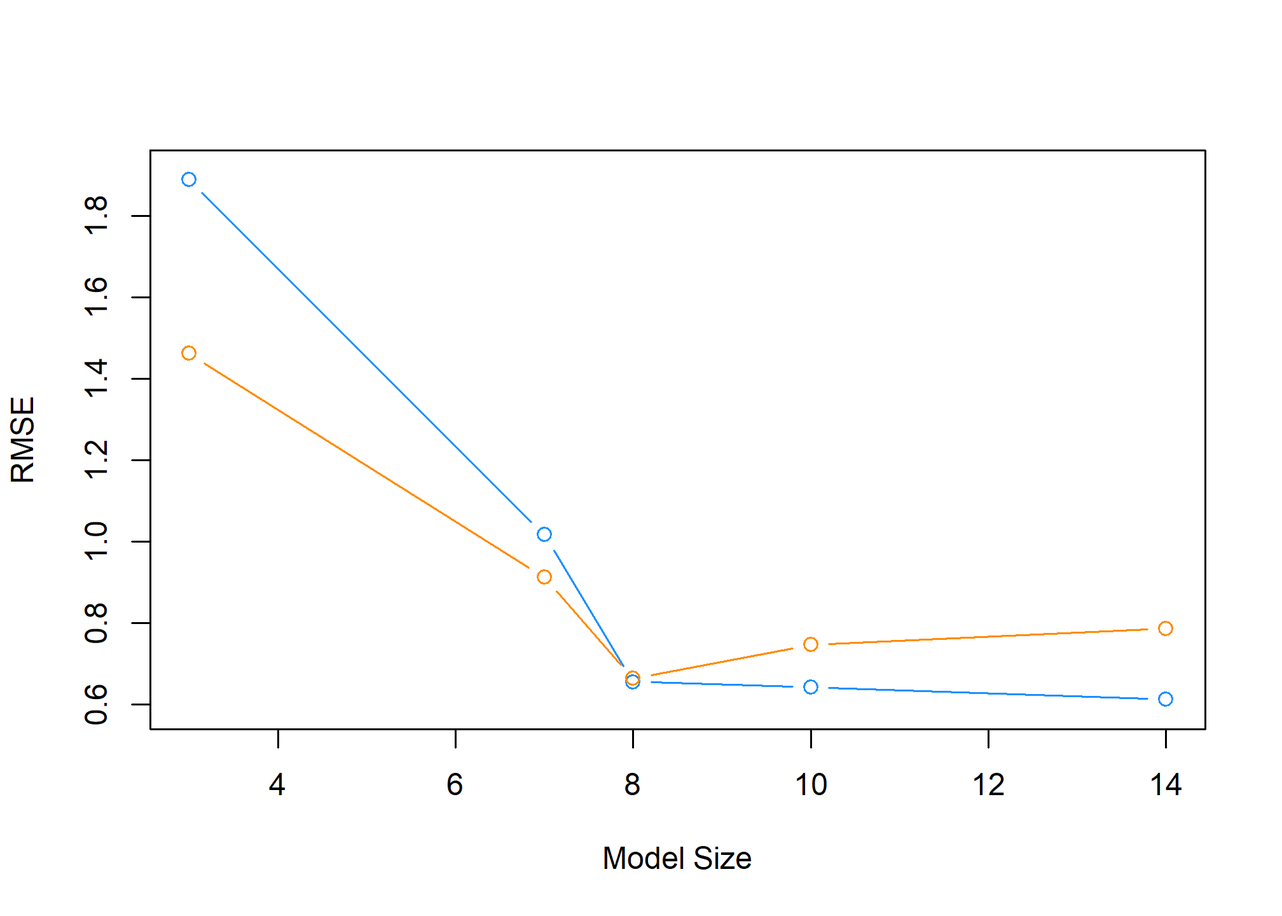
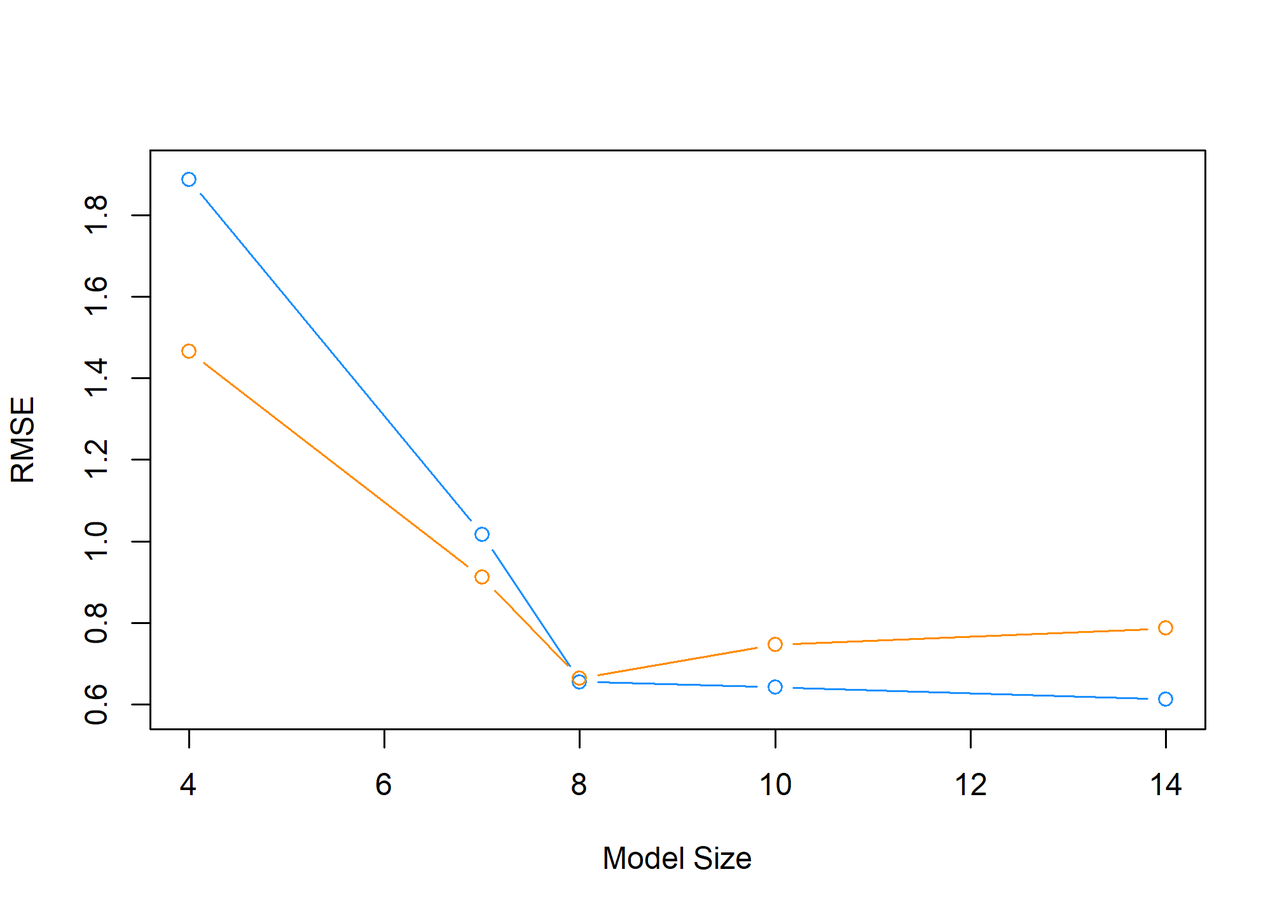
Updated 7 ex

diff --git a/public/example/07-example/index.html b/public/example/07-example/index.html
@@ -246,7 +246,7 @@ We will also use the Ames data again. Maybe some new data. Who knows. The Ames d
   <meta property="twitter:image" content="https://ssc442kirkpatrick.netlify.app/img/social-image.png"><meta property="og:locale" content="en-us">
   
     
-    <meta property="article:modified_time" content="2022-01-06T13:37:54-05:00">
+    <meta property="article:modified_time" content="2022-03-01T11:12:49-05:00">
   
 
   
@@ -645,24 +645,27 @@ We will also use the Ames data again. Maybe some new data. Who knows. The Ames d
 <p>Often when we are developing a linear regression model, part of our goal is to <strong>explain</strong> a relationship. Now, we will ignore much of what we have learned and instead simply use regression as a tool to <strong>predict</strong>. Instead of a model which explains relationships, we seek a model which minimizes errors.</p>
 <p><img src="img/regression.png" /></p>
 <p>First, note that a linear model is one of many methods used in regression.</p>
-<p>To discuss linear models in the context of prediction, we introduce the (very boring) <code>Advertising</code> data that is discussed in the ISL text (see supplemental readings).</p>
+<pre class="r"><code>library(readr)
+# Advertising &lt;- read_csv(here::here(&quot;static&quot;, &quot;data&quot;, &quot;Advertising.csv&quot;))
+Advertising &lt;- read_csv(&#39;https://www.statlearning.com/s/Advertising.csv&#39;)</code></pre>
+<p>To discuss linear models in the context of prediction, we introduce the (very boring) <code>Advertising</code> data that is discussed in the ISL text (see supplemental readings). It can be found at <a href="https://www.statlearning.com/s/Advertising.csv">https://www.statlearning.com/s/Advertising.csv</a>.</p>
 <pre class="r"><code>Advertising</code></pre>
-<pre><code>## # A tibble: 200 x 4
-##       TV Radio Newspaper Sales
-##    &lt;dbl&gt; &lt;dbl&gt;     &lt;dbl&gt; &lt;dbl&gt;
-##  1 230.   37.8      69.2  22.1
-##  2  44.5  39.3      45.1  10.4
-##  3  17.2  45.9      69.3   9.3
-##  4 152.   41.3      58.5  18.5
-##  5 181.   10.8      58.4  12.9
-##  6   8.7  48.9      75     7.2
-##  7  57.5  32.8      23.5  11.8
-##  8 120.   19.6      11.6  13.2
-##  9   8.6   2.1       1     4.8
-## 10 200.    2.6      21.2  10.6
+<pre><code>## # A tibble: 200 x 5
+##     ...1    TV radio newspaper sales
+##    &lt;dbl&gt; &lt;dbl&gt; &lt;dbl&gt;     &lt;dbl&gt; &lt;dbl&gt;
+##  1     1 230.   37.8      69.2  22.1
+##  2     2  44.5  39.3      45.1  10.4
+##  3     3  17.2  45.9      69.3   9.3
+##  4     4 152.   41.3      58.5  18.5
+##  5     5 181.   10.8      58.4  12.9
+##  6     6   8.7  48.9      75     7.2
+##  7     7  57.5  32.8      23.5  11.8
+##  8     8 120.   19.6      11.6  13.2
+##  9     9   8.6   2.1       1     4.8
+## 10    10 200.    2.6      21.2  10.6
 ## # ... with 190 more rows</code></pre>
 <pre class="r"><code>library(caret)
-featurePlot(x = Advertising[ , c(&quot;TV&quot;, &quot;Radio&quot;, &quot;Newspaper&quot;)], y = Advertising$Sales)</code></pre>
+featurePlot(x = Advertising[ , c(&quot;TV&quot;, &quot;radio&quot;, &quot;newspaper&quot;)], y = Advertising$sales)</code></pre>
 <p><img src="/example/07-example_files/figure-html/unnamed-chunk-3-1.png" width="960" /></p>
 </div>
 <div id="assesing-model-accuracy" class="section level2">
@@ -712,21 +715,21 @@ test_data = Advertising[-train_index, ]</code></pre>
 \]</span></p>
 <p>Here <span class="math inline">\(n_{Te}\)</span> is the number of observations in the test set. Test RMSE uses the model fit to the training data, but evaluated on the unused test data. This is a measure of how well the fitted model will predict <strong>in general</strong>, not simply how well it fits data used to train the model, as is the case with train RMSE. What happens to test RMSE as the size of the model increases? That is what we will investigate.</p>
 <p>We will start with the simplest possible linear model, that is, a model with no predictors.</p>
-<pre class="r"><code>fit_0 = lm(Sales ~ 1, data = train_data)
+<pre class="r"><code>fit_0 = lm(sales ~ 1, data = train_data)
 get_complexity(fit_0)</code></pre>
 <pre><code>## [1] 0</code></pre>
 <pre class="r"><code># train RMSE
-sqrt(mean((train_data$Sales - predict(fit_0, train_data)) ^ 2))</code></pre>
+sqrt(mean((train_data$sales - predict(fit_0, train_data)) ^ 2))</code></pre>
 <pre><code>## [1] 5.529258</code></pre>
 <pre class="r"><code># test RMSE
-sqrt(mean((test_data$Sales - predict(fit_0, test_data)) ^ 2))</code></pre>
+sqrt(mean((test_data$sales - predict(fit_0, test_data)) ^ 2))</code></pre>
 <pre><code>## [1] 4.914163</code></pre>
 <p>The previous two operations obtain the train and test RMSE. Since these are operations we are about to use repeatedly, we should use the function that we happen to have already written.</p>
 <pre class="r"><code># train RMSE
-rmse(actual = train_data$Sales, predicted = predict(fit_0, train_data))</code></pre>
+rmse(actual = train_data$sales, predicted = predict(fit_0, train_data))</code></pre>
 <pre><code>## [1] 5.529258</code></pre>
 <pre class="r"><code># test RMSE
-rmse(actual = test_data$Sales, predicted = predict(fit_0, test_data))</code></pre>
+rmse(actual = test_data$sales, predicted = predict(fit_0, test_data))</code></pre>
 <pre><code>## [1] 4.914163</code></pre>
 <p>This function can actually be improved for the inputs that we are using. We would like to obtain train and test RMSE for a fitted model, given a train or test dataset, and the appropriate response variable.</p>
 <pre class="r"><code>get_rmse = function(model, data, response) {
@@ -734,68 +737,68 @@ rmse(actual = test_data$Sales, predicted = predict(fit_0, test_data))</code></pr
        predicted = predict(model, data))
 }</code></pre>
 <p>By using this function, our code becomes easier to read, and it is more obvious what task we are accomplishing.</p>
-<pre class="r"><code>get_rmse(model = fit_0, data = train_data, response = &quot;Sales&quot;) # train RMSE</code></pre>
+<pre class="r"><code>get_rmse(model = fit_0, data = train_data, response = &quot;sales&quot;) # train RMSE</code></pre>
 <pre><code>## [1] 5.529258</code></pre>
-<pre class="r"><code>get_rmse(model = fit_0, data = test_data, response = &quot;Sales&quot;) # test RMSE</code></pre>
+<pre class="r"><code>get_rmse(model = fit_0, data = test_data, response = &quot;sales&quot;) # test RMSE</code></pre>
 <pre><code>## [1] 4.914163</code></pre>
 </div>
 <div id="adding-flexibility-to-linear-models" class="section level2">
 <h2>Adding Flexibility to Linear Models</h2>
 <p>Each successive model we fit will be more and more flexible using both interactions and polynomial terms. We will see the training error decrease each time the model is made more flexible. We expect the test error to decrease a number of times, then eventually start going up, as a result of overfitting.</p>
-<pre class="r"><code>fit_1 = lm(Sales ~ ., data = train_data)
+<pre class="r"><code>fit_1 = lm(sales ~ ., data = train_data)
 get_complexity(fit_1)</code></pre>
-<pre><code>## [1] 3</code></pre>
-<pre class="r"><code>get_rmse(model = fit_1, data = train_data, response = &quot;Sales&quot;) # train RMSE</code></pre>
-<pre><code>## [1] 1.888488</code></pre>
-<pre class="r"><code>get_rmse(model = fit_1, data = test_data, response = &quot;Sales&quot;) # test RMSE</code></pre>
-<pre><code>## [1] 1.461661</code></pre>
-<pre class="r"><code>fit_2 = lm(Sales ~ Radio * Newspaper * TV, data = train_data)
+<pre><code>## [1] 4</code></pre>
+<pre class="r"><code>get_rmse(model = fit_1, data = train_data, response = &quot;sales&quot;) # train RMSE</code></pre>
+<pre><code>## [1] 1.886583</code></pre>
+<pre class="r"><code>get_rmse(model = fit_1, data = test_data, response = &quot;sales&quot;) # test RMSE</code></pre>
+<pre><code>## [1] 1.465515</code></pre>
+<pre class="r"><code>fit_2 = lm(sales ~ radio * newspaper * TV, data = train_data)
 get_complexity(fit_2)</code></pre>
 <pre><code>## [1] 7</code></pre>
-<pre class="r"><code>get_rmse(model = fit_2, data = train_data, response = &quot;Sales&quot;) # train RMSE</code></pre>
+<pre class="r"><code>get_rmse(model = fit_2, data = train_data, response = &quot;sales&quot;) # train RMSE</code></pre>
 <pre><code>## [1] 1.016822</code></pre>
-<pre class="r"><code>get_rmse(model = fit_2, data = test_data, response = &quot;Sales&quot;) # test RMSE</code></pre>
+<pre class="r"><code>get_rmse(model = fit_2, data = test_data, response = &quot;sales&quot;) # test RMSE</code></pre>
 <pre><code>## [1] 0.9117228</code></pre>
-<pre class="r"><code>fit_3 = lm(Sales ~ Radio * Newspaper * TV + I(TV ^ 2), data = train_data)
+<pre class="r"><code>fit_3 = lm(sales ~ radio * newspaper * TV + I(TV ^ 2), data = train_data)
 get_complexity(fit_3)</code></pre>
 <pre><code>## [1] 8</code></pre>
-<pre class="r"><code>get_rmse(model = fit_3, data = train_data, response = &quot;Sales&quot;) # train RMSE</code></pre>
+<pre class="r"><code>get_rmse(model = fit_3, data = train_data, response = &quot;sales&quot;) # train RMSE</code></pre>
 <pre><code>## [1] 0.6553091</code></pre>
-<pre class="r"><code>get_rmse(model = fit_3, data = test_data, response = &quot;Sales&quot;) # test RMSE</code></pre>
+<pre class="r"><code>get_rmse(model = fit_3, data = test_data, response = &quot;sales&quot;) # test RMSE</code></pre>
 <pre><code>## [1] 0.6633375</code></pre>
-<pre class="r"><code>fit_4 = lm(Sales ~ Radio * Newspaper * TV +
-           I(TV ^ 2) + I(Radio ^ 2) + I(Newspaper ^ 2), data = train_data)
+<pre class="r"><code>fit_4 = lm(sales ~ radio * newspaper * TV +
+           I(TV ^ 2) + I(radio ^ 2) + I(newspaper ^ 2), data = train_data)
 get_complexity(fit_4)</code></pre>
 <pre><code>## [1] 10</code></pre>
-<pre class="r"><code>get_rmse(model = fit_4, data = train_data, response = &quot;Sales&quot;) # train RMSE</code></pre>
+<pre class="r"><code>get_rmse(model = fit_4, data = train_data, response = &quot;sales&quot;) # train RMSE</code></pre>
 <pre><code>## [1] 0.6421909</code></pre>
-<pre class="r"><code>get_rmse(model = fit_4, data = test_data, response = &quot;Sales&quot;) # test RMSE</code></pre>
+<pre class="r"><code>get_rmse(model = fit_4, data = test_data, response = &quot;sales&quot;) # test RMSE</code></pre>
 <pre><code>## [1] 0.7465957</code></pre>
-<pre class="r"><code>fit_5 = lm(Sales ~ Radio * Newspaper * TV +
-           I(TV ^ 2) * I(Radio ^ 2) * I(Newspaper ^ 2), data = train_data)
+<pre class="r"><code>fit_5 = lm(sales ~ radio * newspaper * TV +
+           I(TV ^ 2) * I(radio ^ 2) * I(newspaper ^ 2), data = train_data)
 get_complexity(fit_5)</code></pre>
 <pre><code>## [1] 14</code></pre>
-<pre class="r"><code>get_rmse(model = fit_5, data = train_data, response = &quot;Sales&quot;) # train RMSE</code></pre>
+<pre class="r"><code>get_rmse(model = fit_5, data = train_data, response = &quot;sales&quot;) # train RMSE</code></pre>
 <pre><code>## [1] 0.6120887</code></pre>
-<pre class="r"><code>get_rmse(model = fit_5, data = test_data, response = &quot;Sales&quot;) # test RMSE</code></pre>
+<pre class="r"><code>get_rmse(model = fit_5, data = test_data, response = &quot;sales&quot;) # test RMSE</code></pre>
 <pre><code>## [1] 0.7864181</code></pre>
 </div>
 <div id="choosing-a-model" class="section level2">
 <h2>Choosing a Model</h2>
 <p>To better understand the relationship between train RMSE, test RMSE, and model complexity, we summarize our results, as the above is somewhat cluttered.</p>
 <p>First, we recap the models that we have fit.</p>
-<pre class="r"><code>fit_1 = lm(Sales ~ ., data = train_data)
-fit_2 = lm(Sales ~ Radio * Newspaper * TV, data = train_data)
-fit_3 = lm(Sales ~ Radio * Newspaper * TV + I(TV ^ 2), data = train_data)
-fit_4 = lm(Sales ~ Radio * Newspaper * TV +
-           I(TV ^ 2) + I(Radio ^ 2) + I(Newspaper ^ 2), data = train_data)
-fit_5 = lm(Sales ~ Radio * Newspaper * TV +
-           I(TV ^ 2) * I(Radio ^ 2) * I(Newspaper ^ 2), data = train_data)</code></pre>
+<pre class="r"><code>fit_1 = lm(sales ~ ., data = train_data)
+fit_2 = lm(sales ~ radio * newspaper * TV, data = train_data)
+fit_3 = lm(sales ~ radio * newspaper * TV + I(TV ^ 2), data = train_data)
+fit_4 = lm(sales ~ radio * newspaper * TV +
+           I(TV ^ 2) + I(radio ^ 2) + I(newspaper ^ 2), data = train_data)
+fit_5 = lm(sales ~ radio * newspaper * TV +
+           I(TV ^ 2) * I(radio ^ 2) * I(newspaper ^ 2), data = train_data)</code></pre>
 <p>Next, we create a list of the models fit.</p>
 <pre class="r"><code>model_list = list(fit_1, fit_2, fit_3, fit_4, fit_5)</code></pre>
 <p>We then obtain train RMSE, test RMSE, and model complexity for each.</p>
-<pre class="r"><code>train_rmse = sapply(model_list, get_rmse, data = train_data, response = &quot;Sales&quot;)
-test_rmse = sapply(model_list, get_rmse, data = test_data, response = &quot;Sales&quot;)
+<pre class="r"><code>train_rmse = sapply(model_list, get_rmse, data = train_data, response = &quot;sales&quot;)
+test_rmse = sapply(model_list, get_rmse, data = test_data, response = &quot;sales&quot;)
 model_complexity = sapply(model_list, get_complexity)</code></pre>
 <p>We then plot the results. The train RMSE can be seen in blue, while the test RMSE is given in orange.</p>
 <pre class="r"><code>plot(model_complexity, train_rmse, type = &quot;b&quot;,
@@ -819,9 +822,9 @@ lines(model_complexity, test_rmse, type = &quot;b&quot;, col = &quot;darkorange&
 <tbody>
 <tr class="odd">
 <td><code>fit_1</code></td>
-<td>1.8884884</td>
-<td>1.4616608</td>
-<td>3</td>
+<td>1.8865831</td>
+<td>1.4655147</td>
+<td>4</td>
 </tr>
 <tr class="even">
 <td><code>fit_2</code></td>
@@ -874,7 +877,7 @@ lines(model_complexity, test_rmse, type = &quot;b&quot;, col = &quot;darkorange&
                 </div>
 
                 <div class="body-footer">
-                    <p>Last updated on January 6, 2022</p>
+                    <p>Last updated on March 1, 2022</p>
 
                     
 

diff --git a/content/example/07-example.html b/content/example/07-example.html
@@ -39,24 +39,27 @@ editor_options:
 <p>Often when we are developing a linear regression model, part of our goal is to <strong>explain</strong> a relationship. Now, we will ignore much of what we have learned and instead simply use regression as a tool to <strong>predict</strong>. Instead of a model which explains relationships, we seek a model which minimizes errors.</p>
 <p><img src="img/regression.png" /></p>
 <p>First, note that a linear model is one of many methods used in regression.</p>
-<p>To discuss linear models in the context of prediction, we introduce the (very boring) <code>Advertising</code> data that is discussed in the ISL text (see supplemental readings).</p>
+<pre class="r"><code>library(readr)
+# Advertising &lt;- read_csv(here::here(&quot;static&quot;, &quot;data&quot;, &quot;Advertising.csv&quot;))
+Advertising &lt;- read_csv(&#39;https://www.statlearning.com/s/Advertising.csv&#39;)</code></pre>
+<p>To discuss linear models in the context of prediction, we introduce the (very boring) <code>Advertising</code> data that is discussed in the ISL text (see supplemental readings). It can be found at <a href="https://www.statlearning.com/s/Advertising.csv">https://www.statlearning.com/s/Advertising.csv</a>.</p>
 <pre class="r"><code>Advertising</code></pre>
-<pre><code>## # A tibble: 200 x 4
-##       TV Radio Newspaper Sales
-##    &lt;dbl&gt; &lt;dbl&gt;     &lt;dbl&gt; &lt;dbl&gt;
-##  1 230.   37.8      69.2  22.1
-##  2  44.5  39.3      45.1  10.4
-##  3  17.2  45.9      69.3   9.3
-##  4 152.   41.3      58.5  18.5
-##  5 181.   10.8      58.4  12.9
-##  6   8.7  48.9      75     7.2
-##  7  57.5  32.8      23.5  11.8
-##  8 120.   19.6      11.6  13.2
-##  9   8.6   2.1       1     4.8
-## 10 200.    2.6      21.2  10.6
+<pre><code>## # A tibble: 200 x 5
+##     ...1    TV radio newspaper sales
+##    &lt;dbl&gt; &lt;dbl&gt; &lt;dbl&gt;     &lt;dbl&gt; &lt;dbl&gt;
+##  1     1 230.   37.8      69.2  22.1
+##  2     2  44.5  39.3      45.1  10.4
+##  3     3  17.2  45.9      69.3   9.3
+##  4     4 152.   41.3      58.5  18.5
+##  5     5 181.   10.8      58.4  12.9
+##  6     6   8.7  48.9      75     7.2
+##  7     7  57.5  32.8      23.5  11.8
+##  8     8 120.   19.6      11.6  13.2
+##  9     9   8.6   2.1       1     4.8
+## 10    10 200.    2.6      21.2  10.6
 ## # ... with 190 more rows</code></pre>
 <pre class="r"><code>library(caret)
-featurePlot(x = Advertising[ , c(&quot;TV&quot;, &quot;Radio&quot;, &quot;Newspaper&quot;)], y = Advertising$Sales)</code></pre>
+featurePlot(x = Advertising[ , c(&quot;TV&quot;, &quot;radio&quot;, &quot;newspaper&quot;)], y = Advertising$sales)</code></pre>
 <p><img src="/example/07-example_files/figure-html/unnamed-chunk-3-1.png" width="960" /></p>
 </div>
 <div id="assesing-model-accuracy" class="section level2">
@@ -106,21 +109,21 @@ test_data = Advertising[-train_index, ]</code></pre>
 \]</span></p>
 <p>Here <span class="math inline">\(n_{Te}\)</span> is the number of observations in the test set. Test RMSE uses the model fit to the training data, but evaluated on the unused test data. This is a measure of how well the fitted model will predict <strong>in general</strong>, not simply how well it fits data used to train the model, as is the case with train RMSE. What happens to test RMSE as the size of the model increases? That is what we will investigate.</p>
 <p>We will start with the simplest possible linear model, that is, a model with no predictors.</p>
-<pre class="r"><code>fit_0 = lm(Sales ~ 1, data = train_data)
+<pre class="r"><code>fit_0 = lm(sales ~ 1, data = train_data)
 get_complexity(fit_0)</code></pre>
 <pre><code>## [1] 0</code></pre>
 <pre class="r"><code># train RMSE
-sqrt(mean((train_data$Sales - predict(fit_0, train_data)) ^ 2))</code></pre>
+sqrt(mean((train_data$sales - predict(fit_0, train_data)) ^ 2))</code></pre>
 <pre><code>## [1] 5.529258</code></pre>
 <pre class="r"><code># test RMSE
-sqrt(mean((test_data$Sales - predict(fit_0, test_data)) ^ 2))</code></pre>
+sqrt(mean((test_data$sales - predict(fit_0, test_data)) ^ 2))</code></pre>
 <pre><code>## [1] 4.914163</code></pre>
 <p>The previous two operations obtain the train and test RMSE. Since these are operations we are about to use repeatedly, we should use the function that we happen to have already written.</p>
 <pre class="r"><code># train RMSE
-rmse(actual = train_data$Sales, predicted = predict(fit_0, train_data))</code></pre>
+rmse(actual = train_data$sales, predicted = predict(fit_0, train_data))</code></pre>
 <pre><code>## [1] 5.529258</code></pre>
 <pre class="r"><code># test RMSE
-rmse(actual = test_data$Sales, predicted = predict(fit_0, test_data))</code></pre>
+rmse(actual = test_data$sales, predicted = predict(fit_0, test_data))</code></pre>
 <pre><code>## [1] 4.914163</code></pre>
 <p>This function can actually be improved for the inputs that we are using. We would like to obtain train and test RMSE for a fitted model, given a train or test dataset, and the appropriate response variable.</p>
 <pre class="r"><code>get_rmse = function(model, data, response) {
@@ -128,68 +131,68 @@ rmse(actual = test_data$Sales, predicted = predict(fit_0, test_data))</code></pr
        predicted = predict(model, data))
 }</code></pre>
 <p>By using this function, our code becomes easier to read, and it is more obvious what task we are accomplishing.</p>
-<pre class="r"><code>get_rmse(model = fit_0, data = train_data, response = &quot;Sales&quot;) # train RMSE</code></pre>
+<pre class="r"><code>get_rmse(model = fit_0, data = train_data, response = &quot;sales&quot;) # train RMSE</code></pre>
 <pre><code>## [1] 5.529258</code></pre>
-<pre class="r"><code>get_rmse(model = fit_0, data = test_data, response = &quot;Sales&quot;) # test RMSE</code></pre>
+<pre class="r"><code>get_rmse(model = fit_0, data = test_data, response = &quot;sales&quot;) # test RMSE</code></pre>
 <pre><code>## [1] 4.914163</code></pre>
 </div>
 <div id="adding-flexibility-to-linear-models" class="section level2">
 <h2>Adding Flexibility to Linear Models</h2>
 <p>Each successive model we fit will be more and more flexible using both interactions and polynomial terms. We will see the training error decrease each time the model is made more flexible. We expect the test error to decrease a number of times, then eventually start going up, as a result of overfitting.</p>
-<pre class="r"><code>fit_1 = lm(Sales ~ ., data = train_data)
+<pre class="r"><code>fit_1 = lm(sales ~ ., data = train_data)
 get_complexity(fit_1)</code></pre>
-<pre><code>## [1] 3</code></pre>
-<pre class="r"><code>get_rmse(model = fit_1, data = train_data, response = &quot;Sales&quot;) # train RMSE</code></pre>
-<pre><code>## [1] 1.888488</code></pre>
-<pre class="r"><code>get_rmse(model = fit_1, data = test_data, response = &quot;Sales&quot;) # test RMSE</code></pre>
-<pre><code>## [1] 1.461661</code></pre>
-<pre class="r"><code>fit_2 = lm(Sales ~ Radio * Newspaper * TV, data = train_data)
+<pre><code>## [1] 4</code></pre>
+<pre class="r"><code>get_rmse(model = fit_1, data = train_data, response = &quot;sales&quot;) # train RMSE</code></pre>
+<pre><code>## [1] 1.886583</code></pre>
+<pre class="r"><code>get_rmse(model = fit_1, data = test_data, response = &quot;sales&quot;) # test RMSE</code></pre>
+<pre><code>## [1] 1.465515</code></pre>
+<pre class="r"><code>fit_2 = lm(sales ~ radio * newspaper * TV, data = train_data)
 get_complexity(fit_2)</code></pre>
 <pre><code>## [1] 7</code></pre>
-<pre class="r"><code>get_rmse(model = fit_2, data = train_data, response = &quot;Sales&quot;) # train RMSE</code></pre>
+<pre class="r"><code>get_rmse(model = fit_2, data = train_data, response = &quot;sales&quot;) # train RMSE</code></pre>
 <pre><code>## [1] 1.016822</code></pre>
-<pre class="r"><code>get_rmse(model = fit_2, data = test_data, response = &quot;Sales&quot;) # test RMSE</code></pre>
+<pre class="r"><code>get_rmse(model = fit_2, data = test_data, response = &quot;sales&quot;) # test RMSE</code></pre>
 <pre><code>## [1] 0.9117228</code></pre>
-<pre class="r"><code>fit_3 = lm(Sales ~ Radio * Newspaper * TV + I(TV ^ 2), data = train_data)
+<pre class="r"><code>fit_3 = lm(sales ~ radio * newspaper * TV + I(TV ^ 2), data = train_data)
 get_complexity(fit_3)</code></pre>
 <pre><code>## [1] 8</code></pre>
-<pre class="r"><code>get_rmse(model = fit_3, data = train_data, response = &quot;Sales&quot;) # train RMSE</code></pre>
+<pre class="r"><code>get_rmse(model = fit_3, data = train_data, response = &quot;sales&quot;) # train RMSE</code></pre>
 <pre><code>## [1] 0.6553091</code></pre>
-<pre class="r"><code>get_rmse(model = fit_3, data = test_data, response = &quot;Sales&quot;) # test RMSE</code></pre>
+<pre class="r"><code>get_rmse(model = fit_3, data = test_data, response = &quot;sales&quot;) # test RMSE</code></pre>
 <pre><code>## [1] 0.6633375</code></pre>
-<pre class="r"><code>fit_4 = lm(Sales ~ Radio * Newspaper * TV +
-           I(TV ^ 2) + I(Radio ^ 2) + I(Newspaper ^ 2), data = train_data)
+<pre class="r"><code>fit_4 = lm(sales ~ radio * newspaper * TV +
+           I(TV ^ 2) + I(radio ^ 2) + I(newspaper ^ 2), data = train_data)
 get_complexity(fit_4)</code></pre>
 <pre><code>## [1] 10</code></pre>
-<pre class="r"><code>get_rmse(model = fit_4, data = train_data, response = &quot;Sales&quot;) # train RMSE</code></pre>
+<pre class="r"><code>get_rmse(model = fit_4, data = train_data, response = &quot;sales&quot;) # train RMSE</code></pre>
 <pre><code>## [1] 0.6421909</code></pre>
-<pre class="r"><code>get_rmse(model = fit_4, data = test_data, response = &quot;Sales&quot;) # test RMSE</code></pre>
+<pre class="r"><code>get_rmse(model = fit_4, data = test_data, response = &quot;sales&quot;) # test RMSE</code></pre>
 <pre><code>## [1] 0.7465957</code></pre>
-<pre class="r"><code>fit_5 = lm(Sales ~ Radio * Newspaper * TV +
-           I(TV ^ 2) * I(Radio ^ 2) * I(Newspaper ^ 2), data = train_data)
+<pre class="r"><code>fit_5 = lm(sales ~ radio * newspaper * TV +
+           I(TV ^ 2) * I(radio ^ 2) * I(newspaper ^ 2), data = train_data)
 get_complexity(fit_5)</code></pre>
 <pre><code>## [1] 14</code></pre>
-<pre class="r"><code>get_rmse(model = fit_5, data = train_data, response = &quot;Sales&quot;) # train RMSE</code></pre>
+<pre class="r"><code>get_rmse(model = fit_5, data = train_data, response = &quot;sales&quot;) # train RMSE</code></pre>
 <pre><code>## [1] 0.6120887</code></pre>
-<pre class="r"><code>get_rmse(model = fit_5, data = test_data, response = &quot;Sales&quot;) # test RMSE</code></pre>
+<pre class="r"><code>get_rmse(model = fit_5, data = test_data, response = &quot;sales&quot;) # test RMSE</code></pre>
 <pre><code>## [1] 0.7864181</code></pre>
 </div>
 <div id="choosing-a-model" class="section level2">
 <h2>Choosing a Model</h2>
 <p>To better understand the relationship between train RMSE, test RMSE, and model complexity, we summarize our results, as the above is somewhat cluttered.</p>
 <p>First, we recap the models that we have fit.</p>
-<pre class="r"><code>fit_1 = lm(Sales ~ ., data = train_data)
-fit_2 = lm(Sales ~ Radio * Newspaper * TV, data = train_data)
-fit_3 = lm(Sales ~ Radio * Newspaper * TV + I(TV ^ 2), data = train_data)
-fit_4 = lm(Sales ~ Radio * Newspaper * TV +
-           I(TV ^ 2) + I(Radio ^ 2) + I(Newspaper ^ 2), data = train_data)
-fit_5 = lm(Sales ~ Radio * Newspaper * TV +
-           I(TV ^ 2) * I(Radio ^ 2) * I(Newspaper ^ 2), data = train_data)</code></pre>
+<pre class="r"><code>fit_1 = lm(sales ~ ., data = train_data)
+fit_2 = lm(sales ~ radio * newspaper * TV, data = train_data)
+fit_3 = lm(sales ~ radio * newspaper * TV + I(TV ^ 2), data = train_data)
+fit_4 = lm(sales ~ radio * newspaper * TV +
+           I(TV ^ 2) + I(radio ^ 2) + I(newspaper ^ 2), data = train_data)
+fit_5 = lm(sales ~ radio * newspaper * TV +
+           I(TV ^ 2) * I(radio ^ 2) * I(newspaper ^ 2), data = train_data)</code></pre>
 <p>Next, we create a list of the models fit.</p>
 <pre class="r"><code>model_list = list(fit_1, fit_2, fit_3, fit_4, fit_5)</code></pre>
 <p>We then obtain train RMSE, test RMSE, and model complexity for each.</p>
-<pre class="r"><code>train_rmse = sapply(model_list, get_rmse, data = train_data, response = &quot;Sales&quot;)
-test_rmse = sapply(model_list, get_rmse, data = test_data, response = &quot;Sales&quot;)
+<pre class="r"><code>train_rmse = sapply(model_list, get_rmse, data = train_data, response = &quot;sales&quot;)
+test_rmse = sapply(model_list, get_rmse, data = test_data, response = &quot;sales&quot;)
 model_complexity = sapply(model_list, get_complexity)</code></pre>
 <p>We then plot the results. The train RMSE can be seen in blue, while the test RMSE is given in orange.</p>
 <pre class="r"><code>plot(model_complexity, train_rmse, type = &quot;b&quot;,
@@ -213,9 +216,9 @@ lines(model_complexity, test_rmse, type = &quot;b&quot;, col = &quot;darkorange&
 <tbody>
 <tr class="odd">
 <td><code>fit_1</code></td>
-<td>1.8884884</td>
-<td>1.4616608</td>
-<td>3</td>
+<td>1.8865831</td>
+<td>1.4655147</td>
+<td>4</td>
 </tr>
 <tr class="even">
 <td><code>fit_2</code></td>
